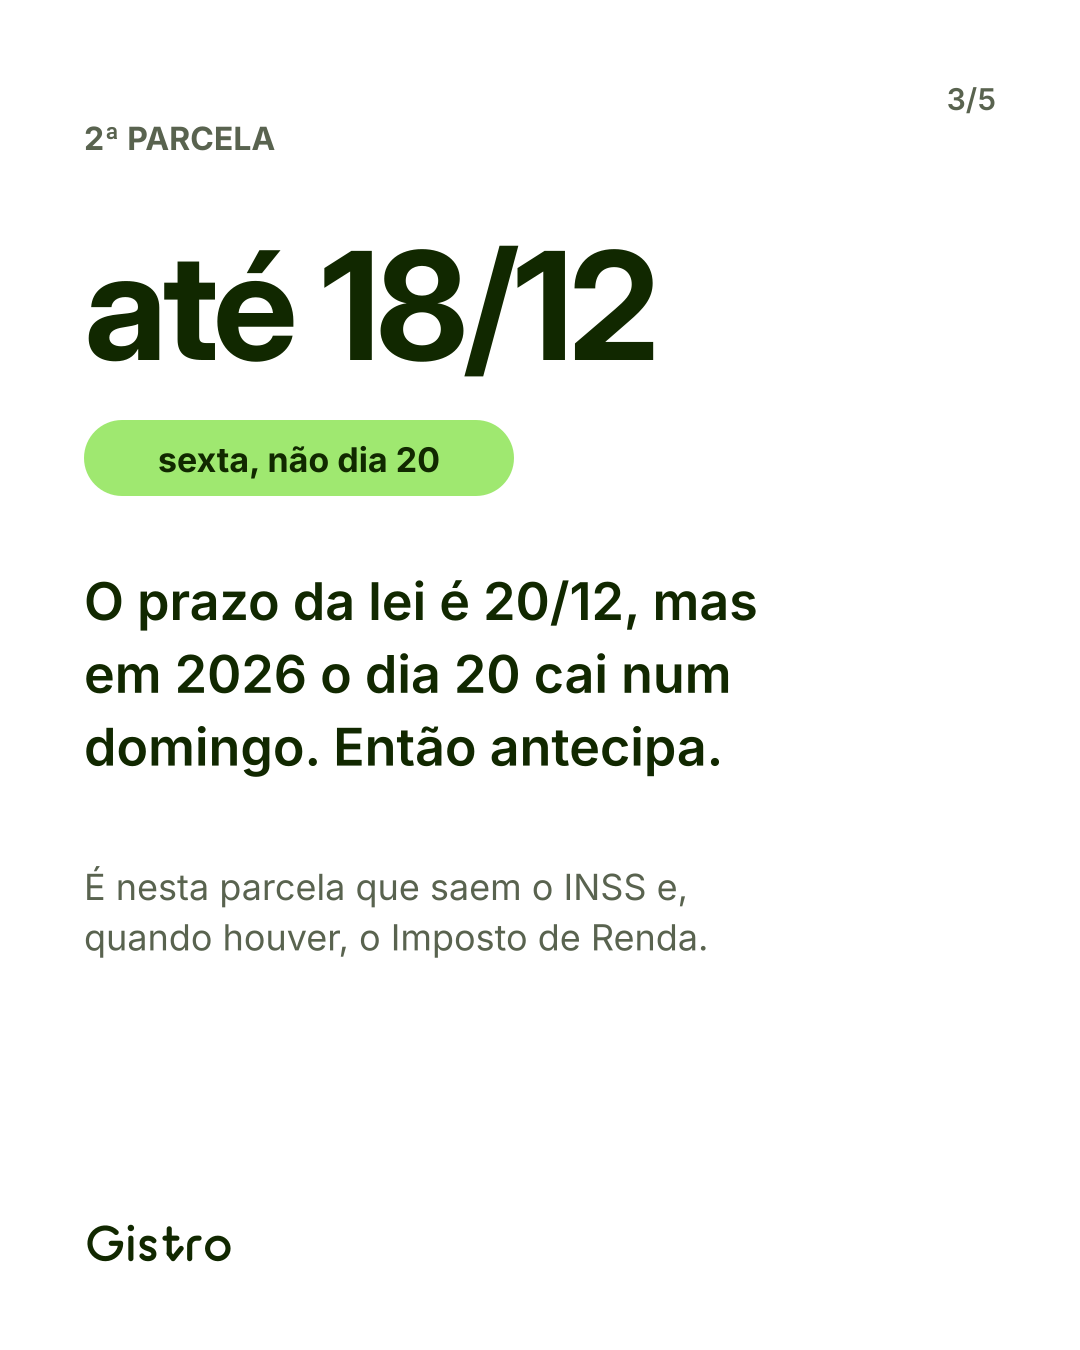
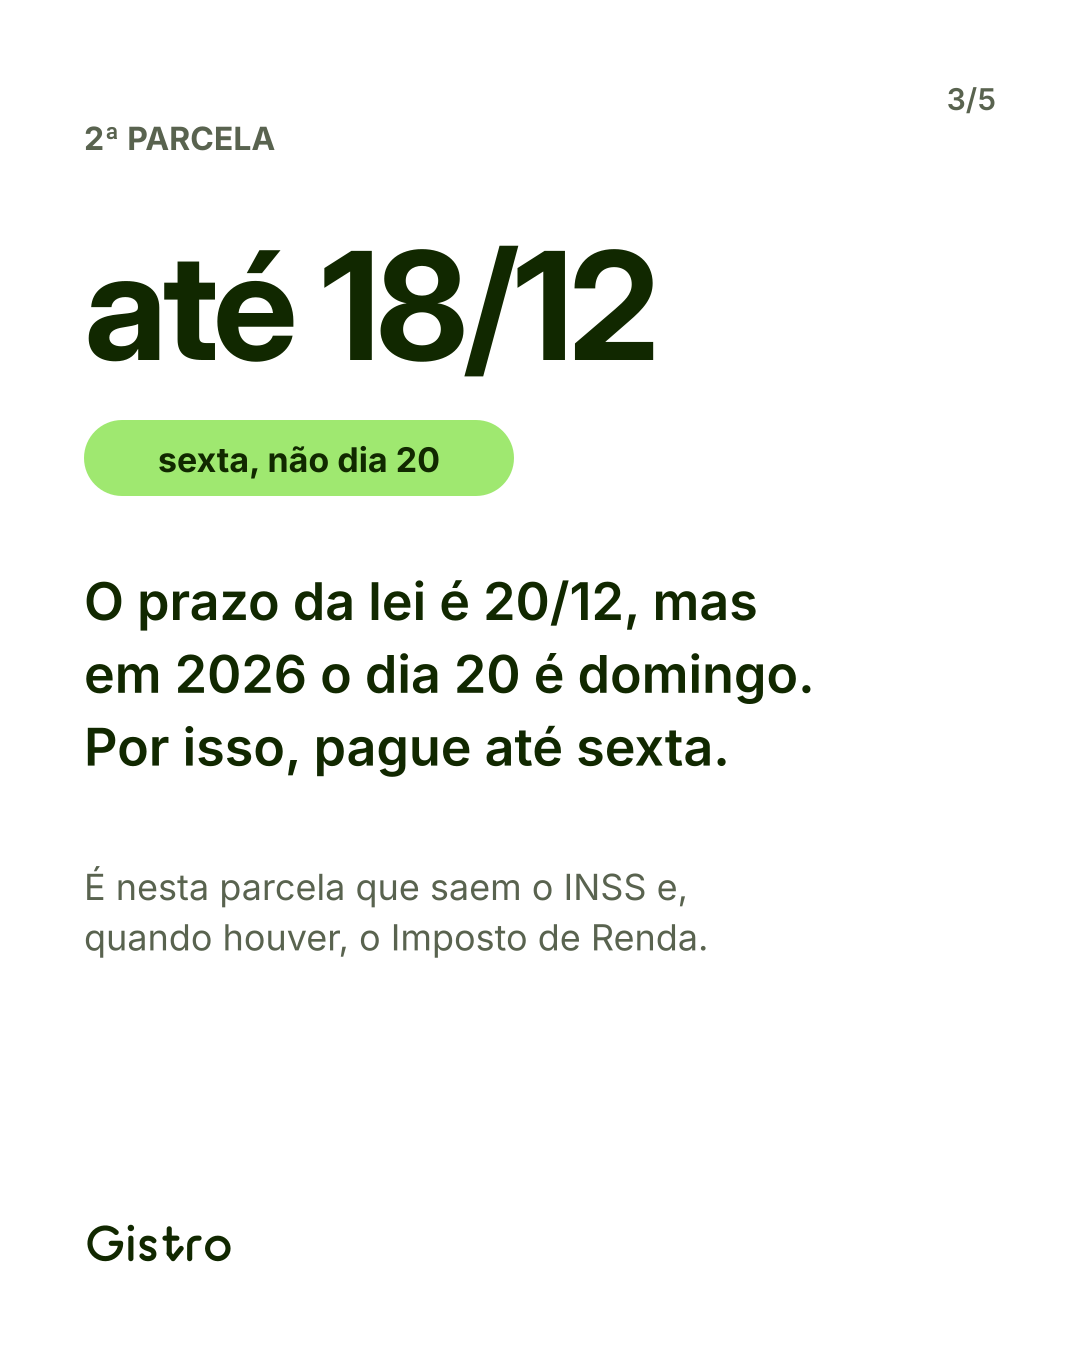
Revisão de português dos stories, carrosséis e legenda de quarta
Claude-Session: https://claude.ai/code/session_01LmXHifE9A15j6TCQ916Wt6

Changed region(s): [[0.1528, 0.4667, 0.7333, 0.5911], [0.0611, 0.5289, 0.1222, 0.5911]]

diff --git a/semanas/2026-11-30/stories.py b/semanas/2026-11-30/stories.py
@@ -8,7 +8,7 @@ S(post_novo(D+'segunda-1.png', ['A 1ª parcela do 13º vence hoje.', 'Os prazos 
 S(enquete('Pergunta rápida', ['Você tem', 'funcionário de', 'carteira assinada?'], 2, ['Tenho', 'Ainda não'],
     ['Queremos entender quem acompanha', 'o perfil para trazer dicas certas.']), 'seg-2')
 S(dica('Hoje fecha novembro', ['Mande o mês', 'para o contador', 'esta semana.'], 2,
-    ['Quanto antes ele recebe os lançamentos', 'e as notas, menos pergunta chega depois.'], objeto('calendario', 300, 1060, 1.0)), 'seg-3')
+    ['Quanto antes ele receber os lançamentos', 'e as notas, menos perguntas aparecem depois.'], objeto('calendario', 300, 1060, 1.0)), 'seg-3')
 # Terça
 S(bastidores(['O dia começa pelo', 'que precisa de você.'], 1, 'telas/painel-atencao.png',
     ['Contas vencidas, valores a receber', 'atrasados e produtos zerados, logo', 'na primeira tela.']), 'ter-1')
@@ -17,14 +17,14 @@ S(mito_verdade(['"Estoque parado', 'não custa nada."'], 'Mito',
     ['É dinheiro que já saiu do caixa e', 'ainda não voltou. Às vezes, o boleto', 'dele vence antes da venda.']), 'ter-3')
 # Quarta
 S(dica('Dica rápida', ['Pagou? Registre', 'na hora.'], 1,
-    ['Conta paga e não anotada vira', 'comprovante para caçar no fim do mês.'], objeto('recibo', 300, 1000, 1.0)), 'qua-1')
+    ['Conta paga e não anotada vira', 'comprovante perdido no fim do mês.'], objeto('recibo', 300, 1000, 1.0)), 'qua-1')
 S(post_novo(D+'quarta.png', ['Onde ficam as contas da sua loja?', 'Responda com o número no post.']), 'qua-2')
 S(enquete('Pergunta rápida', ['Você confere o', 'estoque toda', 'semana?'], 2, ['Toda semana', 'Só quando falta']), 'qua-3')
 # Quinta
 S(post_novo(D+'quinta.png', ['Contar o estoque sem fechar a loja.', 'Veja no perfil.']), 'qui-1')
 S(reels_novo(D+'reels-contagem-quadro.png', ['Contagem de estoque pelo celular,', 'em poucos segundos. Veja no perfil.']), 'qui-2')
 S(dica('Dica de contagem', ['Comece pelo que', 'está zerado', 'no sistema.'], 2,
-    ['É onde mais aparece diferença: às vezes', 'o produto está na prateleira e o', 'controle não sabe.']), 'qui-3')
+    ['É onde mais aparecem diferenças: às vezes', 'o produto está na prateleira e o', 'controle não sabe.']), 'qui-3')
 # Sexta
 S(post_novo(D+'sexta-1.png', ['Comprar para as festas sem', 'encalhar em janeiro. Veja no perfil.']), 'sex-1')
 S(enquete('Pergunta rápida', ['Já fez as', 'compras para', 'as festas?'], 2, ['Já fiz', 'Ainda não']), 'sex-2')

diff --git a/semanas/2026-11-30/carrosseis.py b/semanas/2026-11-30/carrosseis.py
@@ -38,14 +38,14 @@ salvar(post(s2), D + 'segunda-2.png')
 s3  = texto(84, 150, ['2ª PARCELA'], 32, MUT, 700) + pagina(3, T)
 s3 += grande(84, 360, 'até 18/12')
 s3 += f'<rect x="84" y="420" width="430" height="76" rx="38" fill="{LIME}"/><text x="299" y="472" text-anchor="middle" font-family="Inter" font-weight="700" font-size="34" fill="{INK}">sexta, não dia 20</text>'
-s3 += texto(84, 620, ['O prazo da lei é 20/12, mas', 'em 2026 o dia 20 cai num', 'domingo. Então antecipa.'], 52, INK, 600)
+s3 += texto(84, 620, ['O prazo da lei é 20/12, mas', 'em 2026 o dia 20 é domingo.', 'Por isso, pague até sexta.'], 52, INK, 600)
 s3 += texto(84, 900, ['É nesta parcela que saem o INSS e,', 'quando houver, o Imposto de Renda.'], 36)
 s3 += assinatura()
 salvar(post(s3), D + 'segunda-3.png')
 
 s4  = texto(84, 150, ['PARA DEZEMBRO NÃO APERTAR'], 32, MUT, 700) + pagina(4, T)
 s4 += titulo(84, 300, ['Faça isto', 'ainda hoje:'], 104, destaque=1)
-s4 += item(480, ['Separe o valor da 2ª parcela,', 'numa conta à parte'])
+s4 += item(480, ['Separe o valor da 2ª parcela', 'numa conta à parte'])
 s4 += item(640, ['Anote como conta a pagar', 'com vencimento em 18/12'])
 s4 += item(800, ['Some as compras das festas e', 'as contas de janeiro que vêm aí'])
 s4 += assinatura()
@@ -74,7 +74,7 @@ def cuidado(n, tit, linhas, obj, nome):
     s += objeto(obj, 640, 860, 0.85) + assinatura()
     salvar(post(s), D + nome)
 
-cuidado(1, ['Olhe o que', 'já vendeu.'], ['As vendas das últimas semanas', '(e as de dezembro passado, se', 'tiver) dizem mais que o palpite.'], 'calculadora', 'sexta-2.png')
+cuidado(1, ['Olhe o que', 'já vendeu.'], ['As vendas das últimas semanas', '(e as de dezembro passado, se', 'houver) dizem mais que o palpite.'], 'calculadora', 'sexta-2.png')
 cuidado(2, ['Compre em', 'duas etapas.'], ['Uma parte agora e outra no', 'meio de dezembro, quando você', 'já sabe o que está saindo.'], 'caixa', 'sexta-3.png')
 cuidado(3, ['Combine a', 'troca antes.'], ['Pergunte ao fornecedor o que', 'pode voltar se não vender e', 'anote o combinado.'], 'recibo', 'sexta-4.png')
 

diff --git a/semanas/2026-11-23/stories_extras.py b/semanas/2026-11-23/stories_extras.py
@@ -11,11 +11,11 @@ salvar_story(bastidores(['A lista de compras', 'se monta sozinha.'], 1, 'telas/l
     ['Para cada produto, o Gistro mostra quanto', 'falta para voltar ao estoque mínimo.']), D + 'story-extra-qua-2.png')
 # Quinta 12:30 — checklist de fim de mês
 salvar_story(checklist('Fim de mês', ['Antes de fechar', 'novembro, confira:'], 1,
-    ['Contas pagas marcadas como pagas', 'As notas das compras estão guardadas', 'O saldo anotado bate com o extrato', 'O que ficou para dezembro está anotado'],
+    ['Contas pagas estão marcadas', 'As notas das compras estão guardadas', 'O saldo anotado bate com o extrato', 'O que ficou para dezembro está anotado'],
     ['Tire um print e use na segunda, dia 30.']), D + 'story-extra-qui-1.png')
 # Quinta 18:30 — mito ou verdade
 salvar_story(mito_verdade(['"Se tem dinheiro', 'no caixa, o mês', 'foi bom."'], 'Mito',
-    ['O caixa pode estar cheio e ainda ter', 'conta para pagar na semana que vem.', 'O que conta é o que sobra depois', 'de pagar tudo o que é do mês.']), D + 'story-extra-qui-2.png')
+    ['O caixa pode estar cheio e ainda ter', 'conta para pagar na semana que vem.', 'O que importa é o que sobra depois', 'de pagar as contas do mês.']), D + 'story-extra-qui-2.png')
 # Sexta 08:30 — lembrete da conta da margem
 salvar_story(dica('Hoje é Black Friday', ['Lembra da conta?', 'Com 20% de', 'desconto, a sobra', 'caiu pela metade.'], 3,
     ['Peça de R$ 50 que custou R$ 30: a sobra', 'vai de R$ 20 para R$ 10. A conta inteira', 'está no post de quarta, no perfil.']), D + 'story-extra-sex-1.png')
